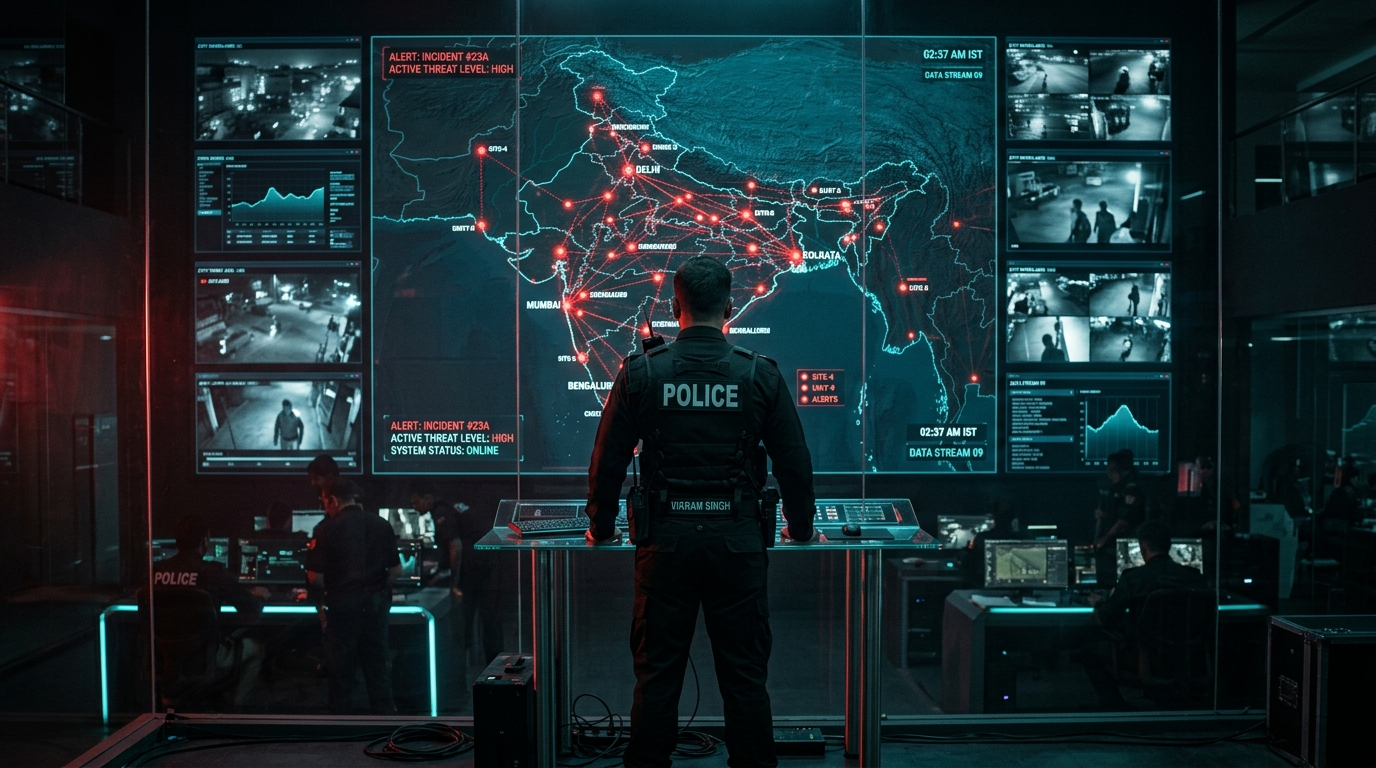
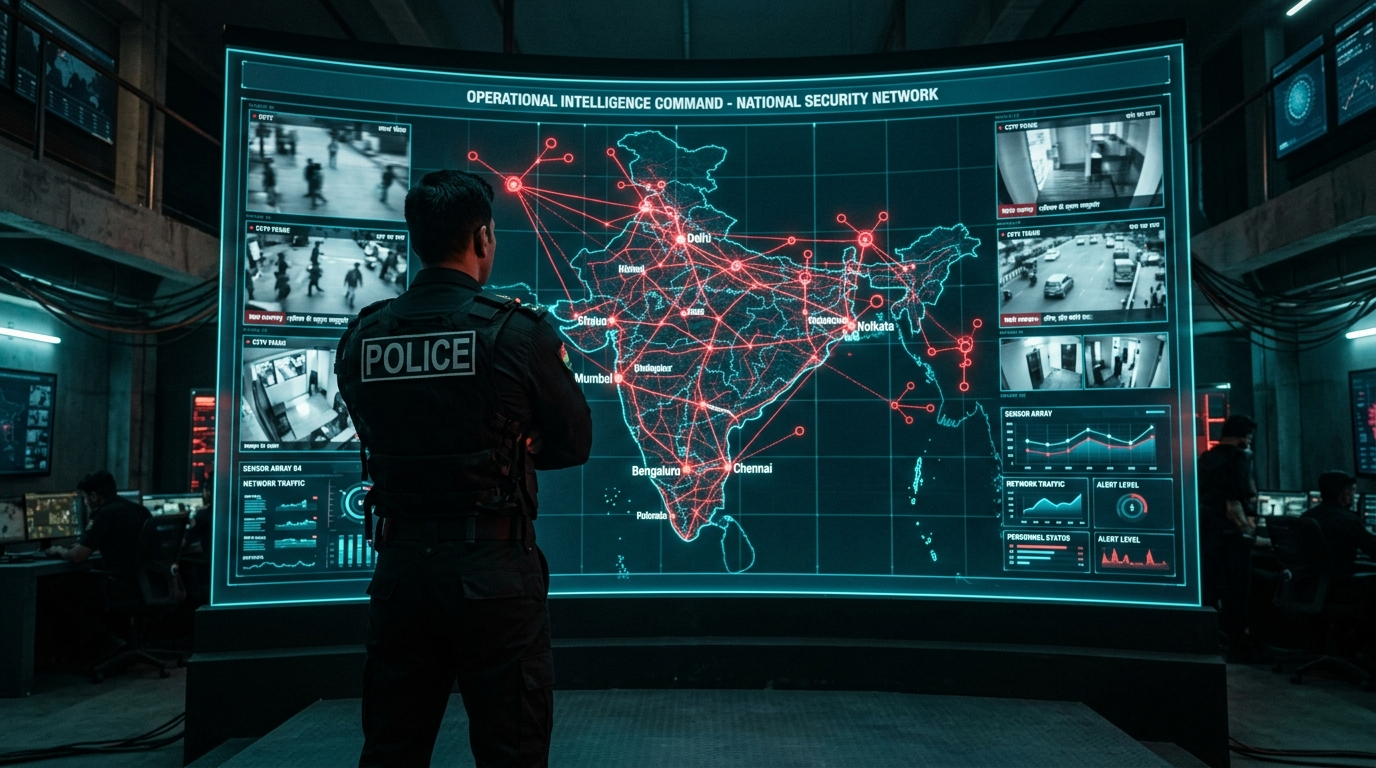
feat: upgrade background wallpaper to ultra high definition 8K tactical command display

diff --git a/app/src/landing/components/hero-section.tsx b/app/src/landing/components/hero-section.tsx
@@ -32,17 +32,16 @@ export default function HeroSection({ onLaunchWorkbench }: HeroSectionProps) {
   return (
     <section id="home" className="relative min-h-screen w-full bg-black text-white flex flex-col justify-between overflow-hidden pt-20 md:pt-24 select-none">
       {/* Background Tactical Image with Dark Vignette */}
-      <div className="absolute inset-0 z-0 pointer-events-none">
+      <div className="absolute inset-0 z-0 pointer-events-none overflow-hidden">
         <img
           src="/jaal-bg.jpg"
           alt="JAAL War Room Intelligence Map"
-          className="w-full h-full object-cover object-center filter brightness-[0.7] contrast-[1.25] saturate-[1.1]"
+          className="w-full h-full object-cover object-center transform scale-100 filter brightness-[0.82] contrast-[1.12]"
+          style={{ imageRendering: 'auto' }}
         />
-        {/* Gradients to blend seamless dark look */}
-        <div className="absolute inset-0 bg-gradient-to-r from-black via-black/60 to-transparent" />
-        <div className="absolute inset-0 bg-gradient-to-t from-black via-transparent to-black/80" />
-        {/* Subtle grid pattern overlay */}
-        <div className="absolute inset-0 bg-[radial-gradient(#ffffff0a_1px,transparent_1px)] [background-size:24px_24px] opacity-40" />
+        {/* Subtle vignette and left gradient for text readability */}
+        <div className="absolute inset-0 bg-gradient-to-r from-black/95 via-black/50 to-black/20" />
+        <div className="absolute inset-0 bg-gradient-to-t from-black via-transparent to-black/70" />
       </div>
 
       {/* Main Center Container */}
